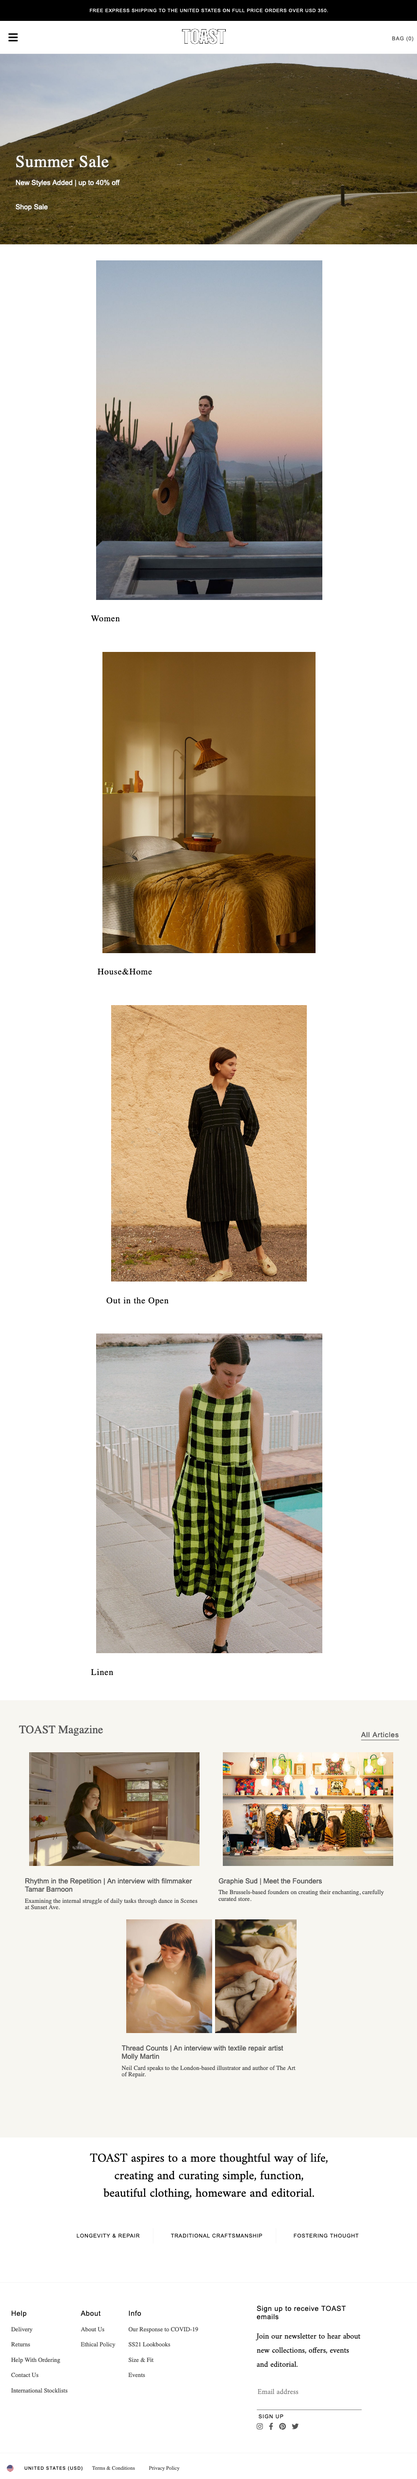
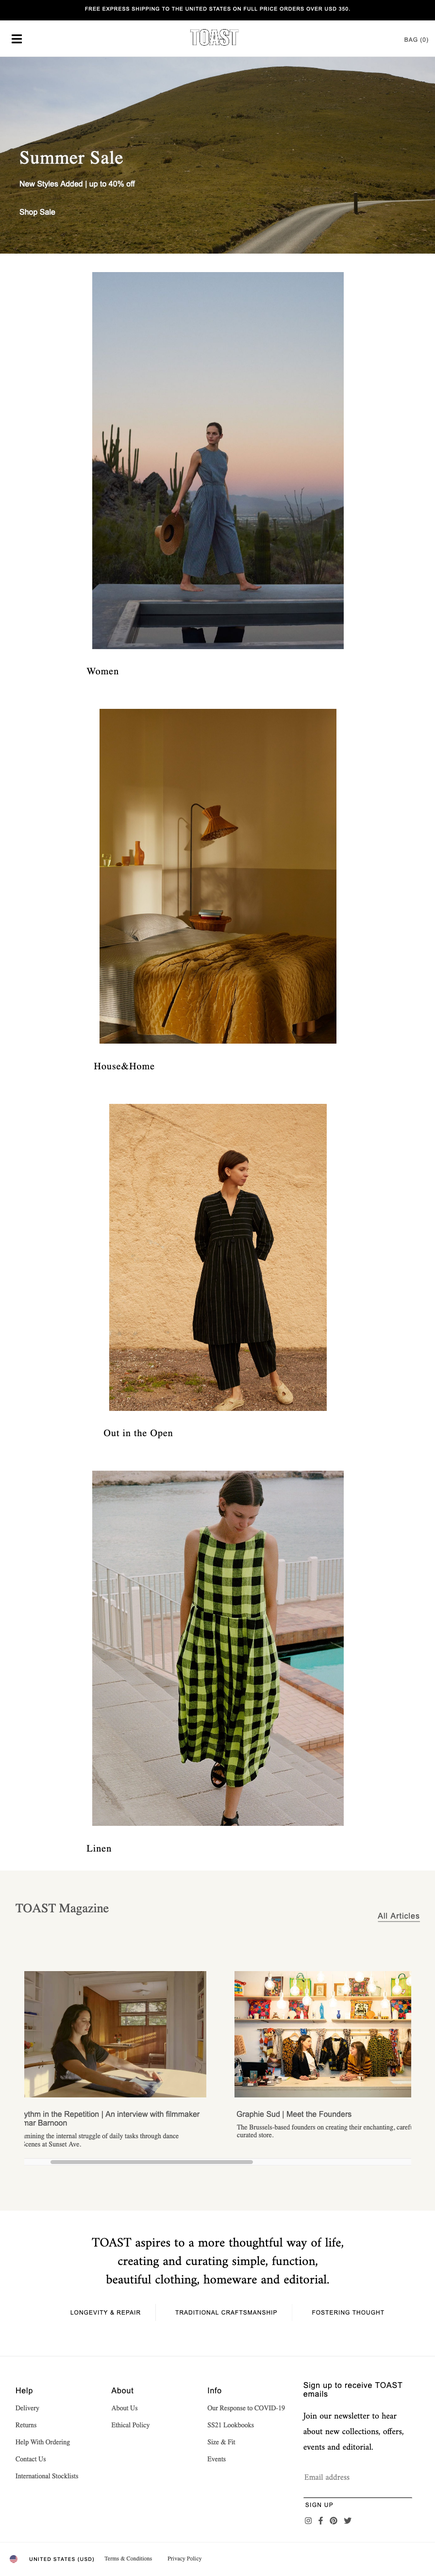
Update README

diff --git a/README.md b/README.md
@@ -1,8 +1,5 @@
-<<<<<<< HEAD
 # Project: TOAST Website Clone
-=======
-# Project: Sunnyside Creative Agency
->>>>>>> 6f78ce34e9cb7f2ff8da34ccb63bf9682ad92ec5
+
 
 ## **About Project**
 
@@ -39,14 +36,12 @@ Create a functional clone of https://us.toa.st/ from scratch
 
 ## **Summary**
 
-<<<<<<< HEAD
 **Challenges I Faced**
 * Creating the mega menu was a new learning, and a challenge to align properly with the navbar so as not to break other parts of the navigation 
+* The magazine section was interesting to format - I didn't like how it looked with a  flex-wrap method, so created a slider for the tablet and mobile sizes instead.
 * Creating the mobile dropdown is not usually a challenge, but I found that when I created the mega menu, it broke the usual system for how I would create a mobile menu. This required seeking out alternative plans to fix this issue.
 
-=======
->>>>>>> 6f78ce34e9cb7f2ff8da34ccb63bf9682ad92ec5
-**What I learned**
+**What I know**
 * Creating dropdown navigation bar
 * Effecient, practical use of columns systems
 * Use of developer tools for solving problems
@@ -54,31 +49,22 @@ Create a functional clone of https://us.toa.st/ from scratch
 * UI/UX of ecommerce websites
 
 **Where I can grow**
-* Practice more with media queries to write most efficient code
 * Continue to practice creating menus, and writing code for toggles
+
+<br>
 
 ## **Screenshots**
 
-<<<<<<< HEAD
-***Desktop**<br>
+<br>
+
+**Desktop**<br>
 
 ![Desktop](toastSH-desktop.png)
 
-***Mega Menu**<br>
+**Mega Menu**<br>
 
 ![Desktop](toastSH-mega-menu.png)
 
-***Tablet**
+**Tablet**
 
 ![Mobile](toastSH-tablet.png)
-=======
-***Desktop**
-![toastSH-desktop](https://user-images.githubusercontent.com/83058654/125377170-59913500-e341-11eb-871d-cea93c0bab55.png)
-
-***Mega Menu**
-![toastSH-mega-menu](https://user-images.githubusercontent.com/83058654/125377212-7168b900-e341-11eb-8d79-fd5f57eb8c76.png)
-
-***Tablet**
-![toastSH-tablet](https://user-images.githubusercontent.com/83058654/125377193-66ae2400-e341-11eb-9637-97f381b9d2a0.png)
-
->>>>>>> 6f78ce34e9cb7f2ff8da34ccb63bf9682ad92ec5
